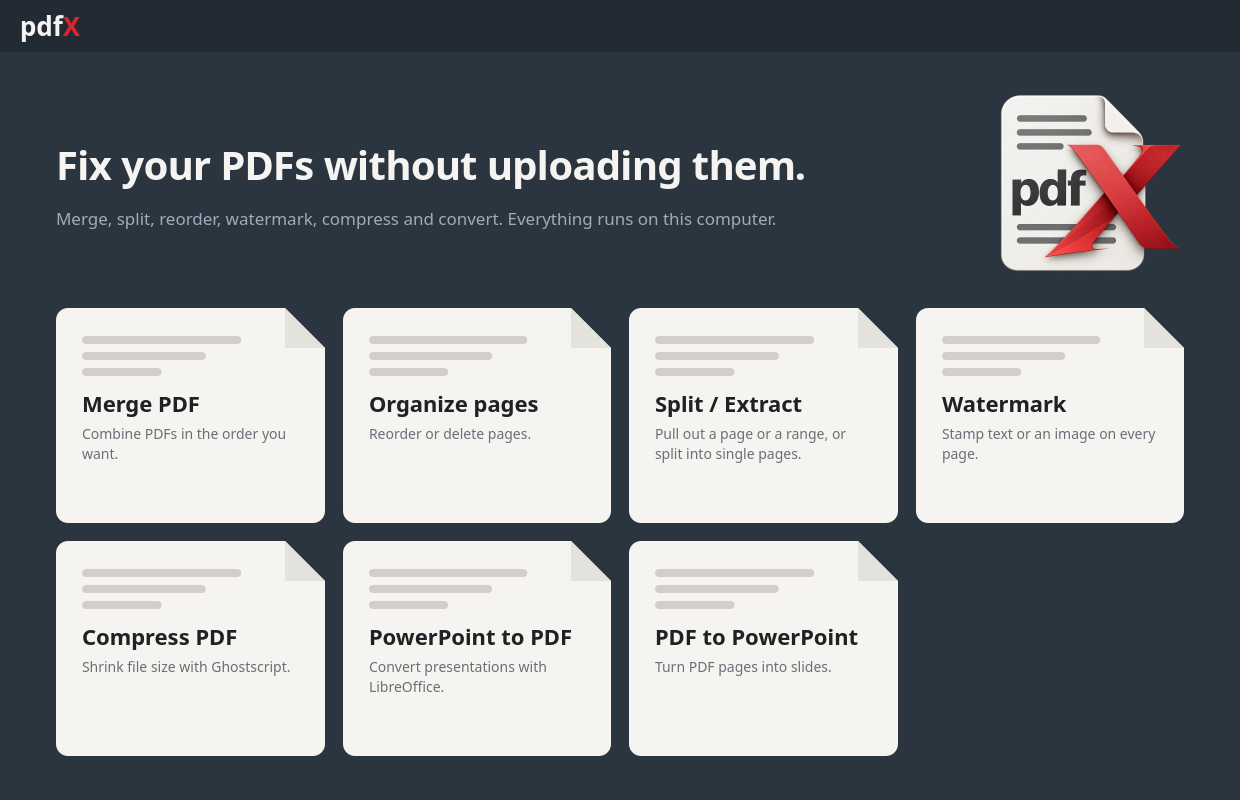
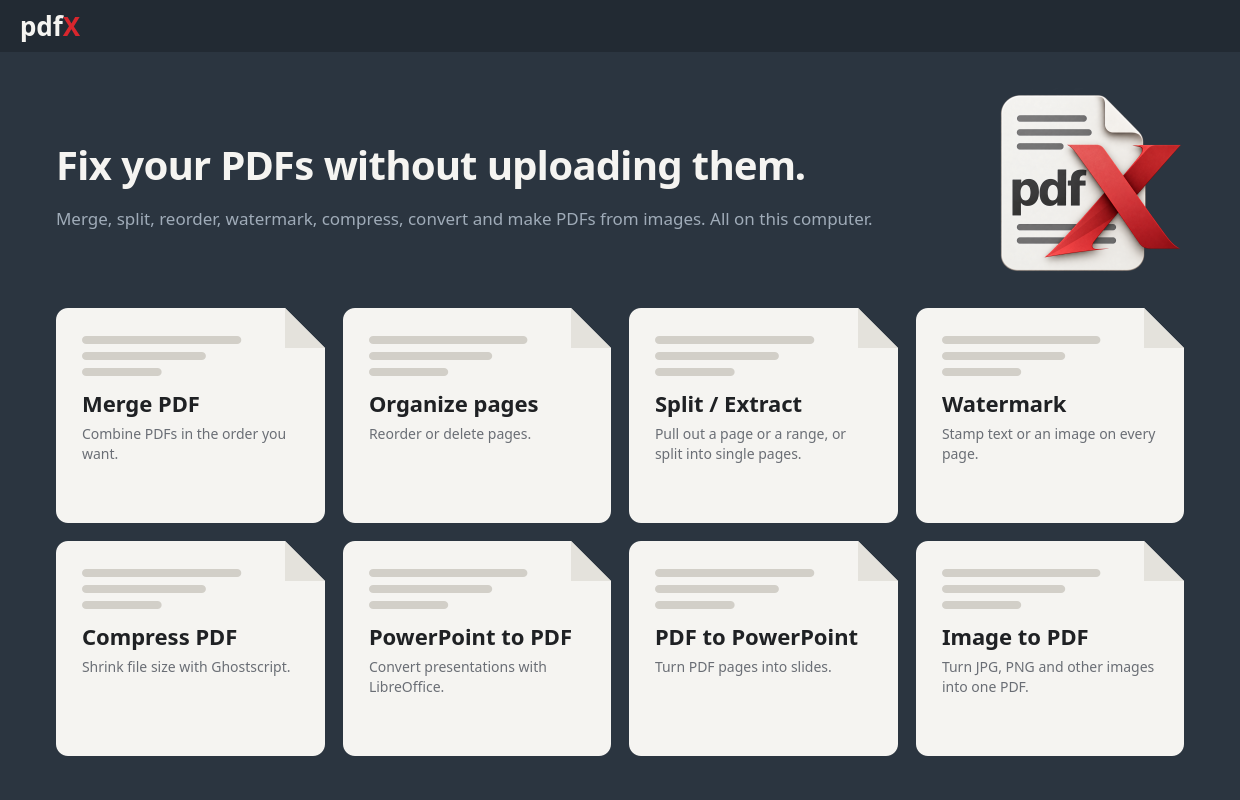
Updated README | Updated landing page subtitle

Changed region(s): [[0.7355, 0.6562, 0.9806, 0.9688], [0.3371, 0.25, 0.7048, 0.2812]]

diff --git a/src/pdfx/gui/app.py b/src/pdfx/gui/app.py
@@ -135,7 +135,7 @@ class Window(QMainWindow):
         font = title.font()
         font.setLetterSpacing(QFont.SpacingType.PercentageSpacing, 97)
         title.setFont(font)
-        sub = QLabel("Merge, split, reorder, watermark, compress and convert. Everything runs on this computer.")
+        sub = QLabel("Merge, split, reorder, watermark, compress, convert and make PDFs from images. All on this computer.")
         sub.setObjectName("sub")
         sub.setWordWrap(True)
         words = QVBoxLayout()

diff --git a/README.md b/README.md
@@ -6,7 +6,7 @@
 
 **A desktop toolkit for everyday PDF jobs. Your files never leave your computer.**
 
-Merge, reorder, split, watermark, compress and convert PDFs with a visual page editor, on Windows and Linux.
+Merge, reorder, split, watermark, compress and convert PDFs, or build one from your images, with a visual page editor, on Windows and Linux.
 
 ![License: MIT](https://img.shields.io/badge/license-MIT-D8262D)
 ![Python 3.10+](https://img.shields.io/badge/python-3.10%2B-2B3540)
@@ -66,6 +66,14 @@ Turn a PDF into a `.pptx` in either of two modes:
 - **Editable:** text stays real text and shapes stay shapes, so you can keep working on the slides in PowerPoint. Complex layouts can shift, and scanned pages stay as pictures.
 - **Exact look:** each page becomes a full-slide picture. It looks identical to the PDF, but nothing is editable.
 
+### Image to PDF
+Turn photos, scans and screenshots into a single PDF. Add JPG, PNG, GIF, BMP, TIFF or WebP images by selecting or dropping them, drag them into order, and save. Each image becomes one page.
+- **Pages fit the image.** A page takes its size from the image's resolution, so a 300 dpi scan of a letter-size sheet comes out as a letter-size page. Images with no resolution stored get 150 dpi.
+- **Photos keep their quality.** JPEGs are embedded as they are, not recompressed, so the PDF is about the size of the originals. Other formats are stored losslessly, and transparent PNGs sit on a white page.
+- **Phone photos come out upright.** The rotation your camera recorded is respected.
+
+HEIC images (the iPhone default) aren't supported yet. For multi-page TIFFs and animated GIFs, only the first frame is used.
+
 ## Designed to be pleasant to use
 
 - **See your pages.** Real thumbnails rendered by PDFium, drawn in the background so large files don't freeze the window.
@@ -77,7 +85,7 @@ Turn a PDF into a `.pptx` in either of two modes:
 
 ## What it needs
 
-pdfX handles merging, reordering, splitting, watermarking and image-mode PDF to PowerPoint on its own. Two features use free tools that do the heavy lifting.
+pdfX handles merging, reordering, splitting, watermarking, image to PDF and image-mode PDF to PowerPoint on its own. Two features use free tools that do the heavy lifting.
 
 | Feature | Needs | How you get it |
 | --- | --- | --- |
@@ -141,6 +149,7 @@ pdfx.reorder("report.pdf", [4, 0, 1, 2, 3], "new-order.pdf")      # 0-based page
 pdfx.watermark_text("report.pdf", "CONFIDENTIAL", "marked.pdf", opacity=0.25)
 pdfx.compress("scan.pdf", "smaller.pdf", level="ebook")           # needs Ghostscript
 pdfx.pdf_to_ppt("report.pdf", "slides.pptx", editable=False)
+pdfx.images_to_pdf(["page1.jpg", "page2.png"], "scans.pdf")
 ```
 
 Problems with your input raise `pdfx.PdfxError`, with a message you can show to a user.
@@ -168,7 +177,7 @@ tests/
 
 ## Built with
 
-[PySide6](https://doc.qt.io/qtforpython-6/) (Qt) for the interface, [pypdf](https://github.com/py-pdf/pypdf) for page operations, [pypdfium2](https://github.com/pypdfium2-team/pypdfium2) for page previews, [ReportLab](https://www.reportlab.com/opensource/) for watermarks, [python-pptx](https://github.com/scanny/python-pptx) for slides, with [Ghostscript](https://ghostscript.com/) and [LibreOffice](https://www.libreoffice.org/) as optional helpers.
+[PySide6](https://doc.qt.io/qtforpython-6/) (Qt) for the interface, [pypdf](https://github.com/py-pdf/pypdf) for page operations, [pypdfium2](https://github.com/pypdfium2-team/pypdfium2) for page previews, [ReportLab](https://www.reportlab.com/opensource/) for watermarks and image pages, [Pillow](https://python-pillow.org/) for reading images, [python-pptx](https://github.com/scanny/python-pptx) for slides, with [Ghostscript](https://ghostscript.com/) and [LibreOffice](https://www.libreoffice.org/) as optional helpers.
 
 ## License
 
